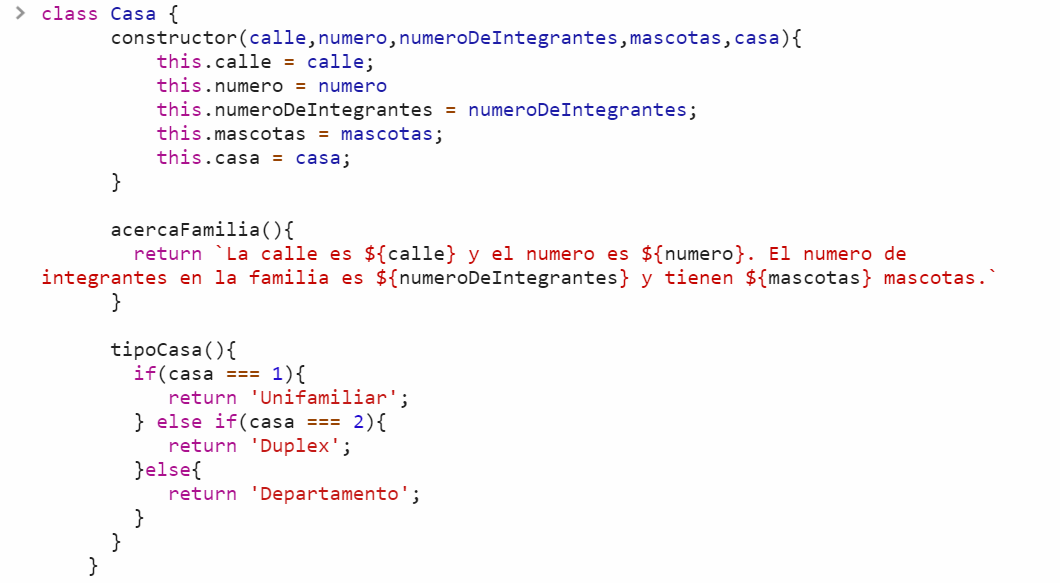
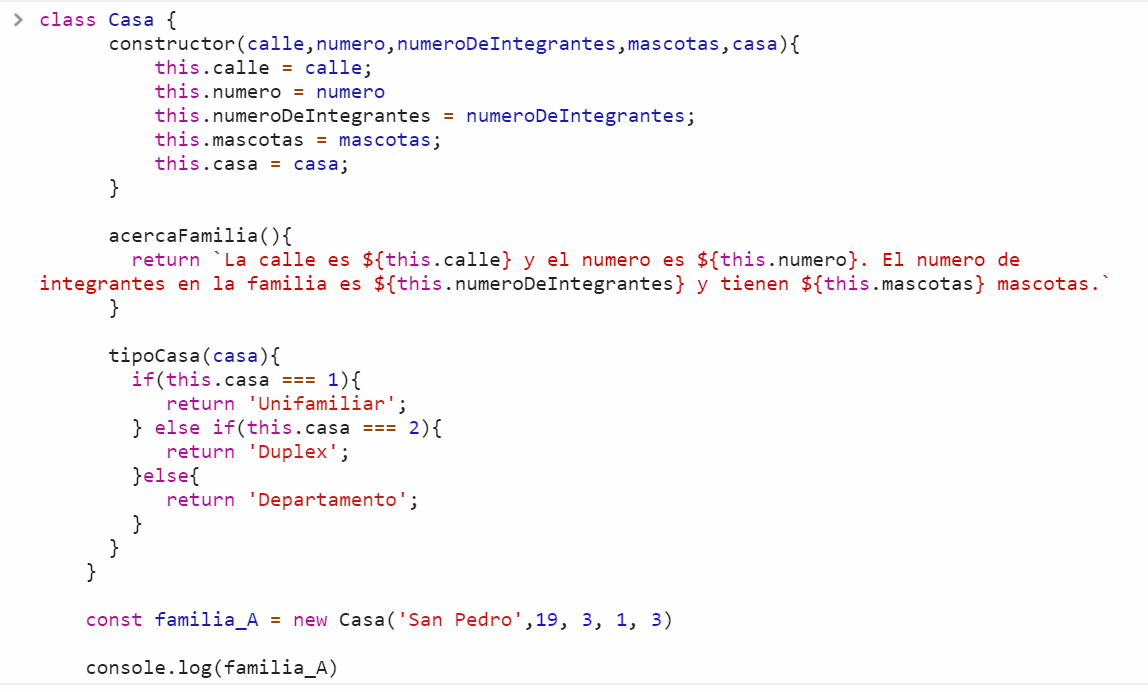
Class

diff --git a/README.md b/README.md
@@ -618,9 +618,11 @@ function Familia(numeroDeIntegrantes,mascotas){
       constructor(var_a,var_b,'etc.')
         {
           this.var_a = 'variable';
+         /*
           .
+          . Variables que se necesiten
           .
-          .
+          */
           this.nombre_variable = 'variable';
         }    
 
@@ -650,13 +652,13 @@ function Familia(numeroDeIntegrantes,mascotas){
       }
 
       acercaFamilia(){
-        return `La calle es ${calle} y el numero es ${numero}. El numero de integrantes en la familia es ${numeroDeIntegrantes} y tienen ${mascotas} mascotas.`
+        return `La calle es ${this.calle} y el numero es ${this.numero}. El numero de integrantes en la familia es ${this.numeroDeIntegrantes} y tienen ${this.mascotas} mascotas.`
       }
 
-      tipoCasa(){
-        if(casa === 1){
+      tipoCasa(casa){
+        if(this.casa === 1){
            return 'Unifamiliar';
-        } else if(casa === 2){
+        } else if(this.casa === 2){
            return 'Duplex';
         }else{
            return 'Departamento';
@@ -668,7 +670,55 @@ function Familia(numeroDeIntegrantes,mascotas){
 
     console.log(familia_A)
   ```
+ ### Consola (Google Chrome)
 
 ![Console_Result_11](prototypes/P_11.png) 
 
+>Llamando a las funciones
+![Console_Result_11.5](prototypes/P_11.5.png) 
 ![Console_Result_12](prototypes/P_12.png) 
+
+>### Class / Extends
+> Utilizar el extendes despues de declarar una clase esta "extendera" sus atributos tomando la clase que le indiques
+
+### Ejemplo
+
+```js
+class Casa {
+      constructor(calle,numero,numeroDeIntegrantes,mascotas,casa){
+          this.calle = calle;
+          this.numero = numero
+          this.numeroDeIntegrantes = numeroDeIntegrantes; 
+          this.mascotas = mascotas;
+          this.casa = casa;
+      }
+
+      acercaFamilia(){
+        return `La calle es ${this.calle} y el numero es ${this.numero}. El numero de integrantes en la familia es ${this.numeroDeIntegrantes} y tienen ${this.mascotas} mascotas.`
+      }
+
+      tipoCasa(casa){
+        if(this.casa === 1){
+           return 'Unifamiliar';
+        } else if(this.casa === 2){
+           return 'Duplex';
+        }else{
+           return 'Departamento';
+        }
+      }
+    }
+
+    class Constructora extends Casa{
+        constructor(nombreConstructora,tipoDeCredito){
+        /* Se "llaman" las variables del "padre" */
+        super(calle,numero,numeroDeIntegrantes,mascotas,casa);
+
+        this.nombreConstructora = nombreConstructora;
+        this.tipoDeCredito = tipoDeCredito;
+      }
+    }
+
+    const contructora_A = new Constructora('San Pedro',19, 3, 1, 3,'BestHouse','Infonavit');
+
+    console.log(constructor_A);
+```
